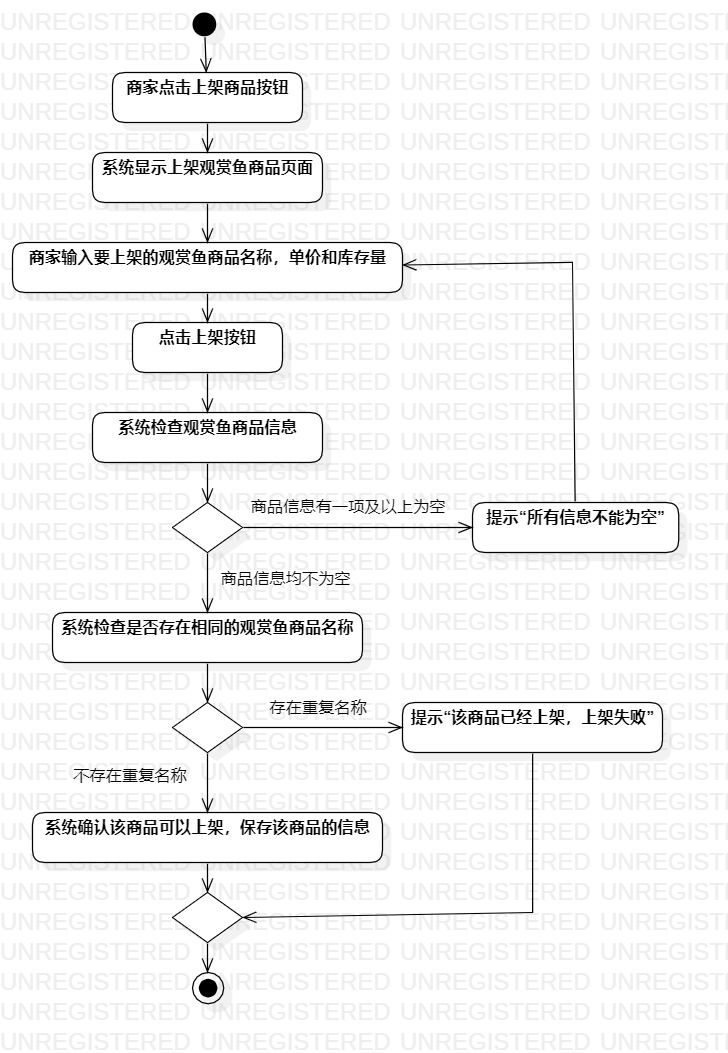
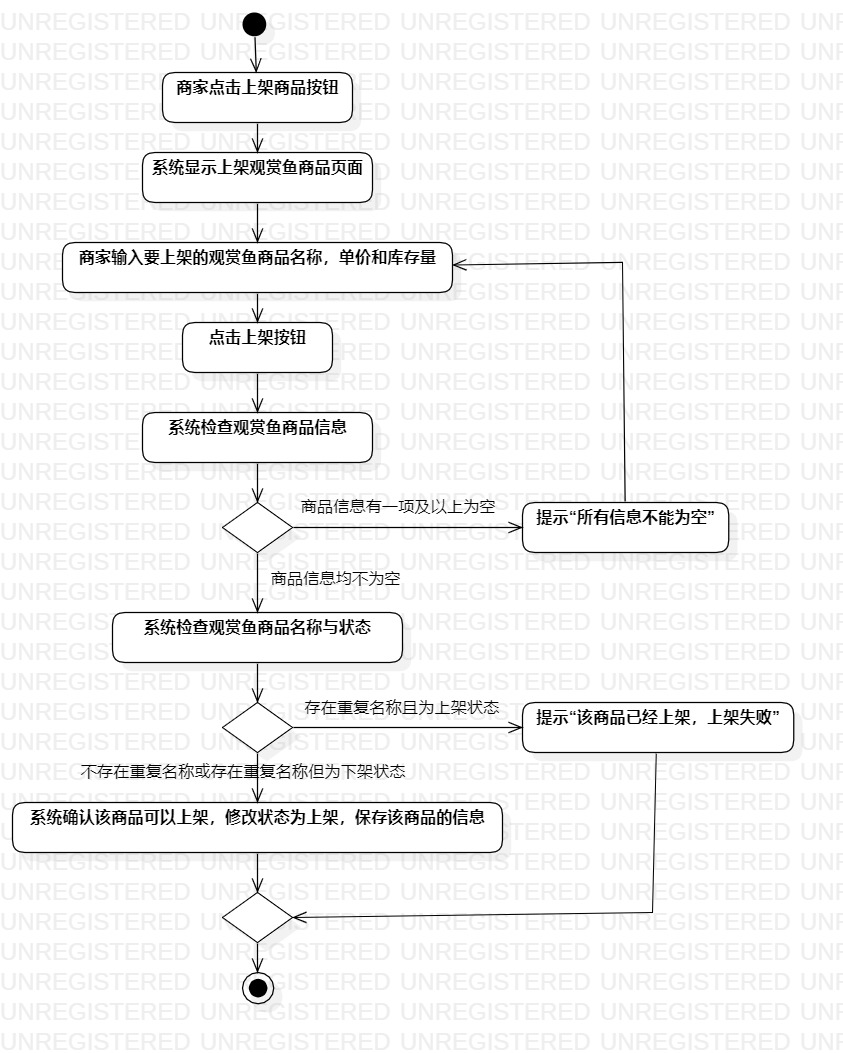
实验七状态建模

diff --git a/students/1714080902125/lab2.md b/students/1714080902125/lab2.md
@@ -50,10 +50,10 @@
 基本流程  | 1. 商家点击上架商品按钮；  |    
 ~| 2. 系统显示上架观赏鱼商品页面；  |   
 ~| 3. 商家输入要上架的观赏鱼商品名称，单价和库存量，再点击上架按钮；  |   
-~| 4. 系统检查发现观赏鱼商品名称，单价和库存量均不为空，且未存在相同的观赏鱼商品名称，确认该商品可以上架，保存该商品的信息；  |   
+~| 4. 系统检查发现观赏鱼商品名称，单价和库存量均不为空，且未存在相同的观赏鱼商品名称或已存在但为下架状态，确认该商品可以上架，修改为上架状态，保存该商品的信息；  |   
 ~| 5. 系统显示首页。  |  
 扩展流程  | 4.1 系统检查发现观赏鱼商品名称，单价和库存量有一项及以上为空，提示“所有信息不能为空”；  |    
-~| 4.2 系统检查发现该商品名称已存在，提示“该商品已经上架，上架失败”。  |  
+~| 4.2 系统检查发现该商品名称已存在且为上架状态，提示“该商品已经上架，上架失败”。  |  
 
 ## 表2：下架观赏鱼商品用例规约  
 
@@ -65,7 +65,7 @@
 基本流程  | 1. 商家点击某一观赏鱼商品栏的下架按钮；  |    
 ~| 2. 系统发出再次确认下架的对话框；  |   
 ~| 3. 商家确认点击“是”按钮；  |   
-~| 4. 系统检查发现该商品库存量小于100，删除商品信息，并显示“商品下架成功”；  |   
+~| 4. 系统检查发现该商品库存量小于100，修改商品为下架状态，并显示“商品下架成功”；  |   
 ~| 5. 系统显示首页。  |  
 扩展流程  | 4.1 系统检查发现该商品库存量大于100，提示“该商品库存量较大，下架失败”。  |    
 
